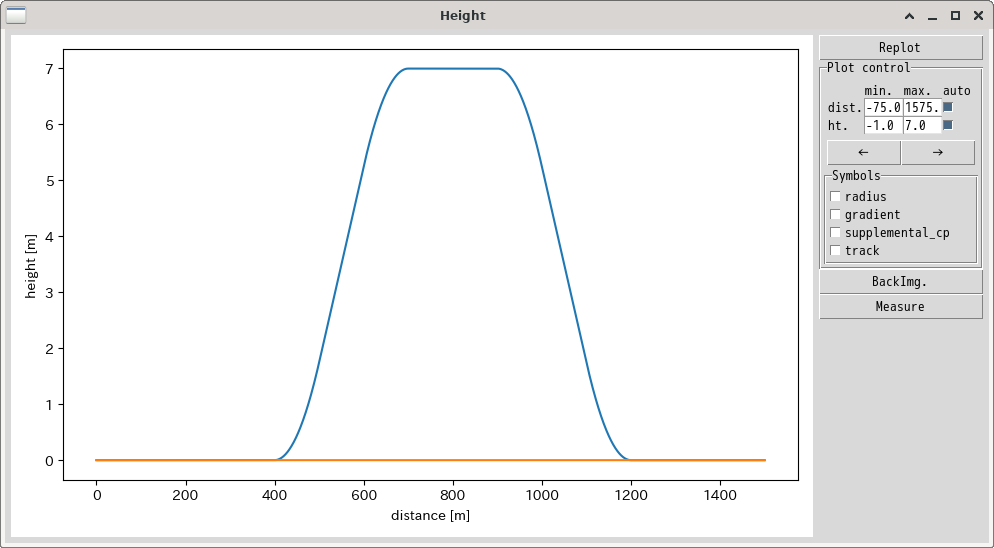
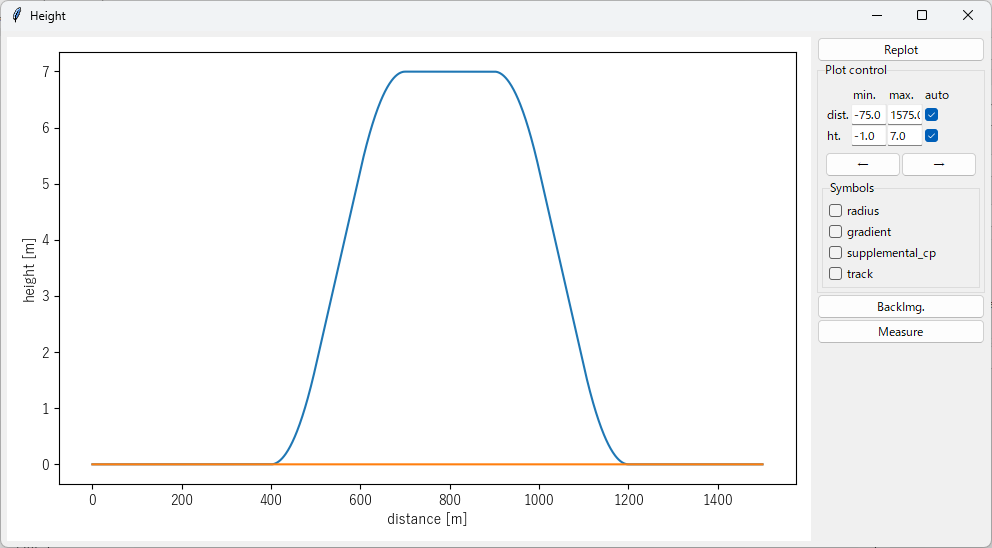
スクリーンショットの差し替え。ファイル構成の修正。

diff --git a/docs_src/reference_heightmeasure.rst b/docs_src/reference_heightmeasure.rst
@@ -2,3 +2,14 @@
 Measureウィンドウ(高度)
 ======================
 
+
+.. image:: ./files/height_measure.png
+	   :scale: 60%
+
+
+カーソル機能
+=============
+
+プロットウィンドウ上の座標(距離, 高度)と勾配を調べる機能です。
+任意の数のカーソルを設定できます。
+

diff --git a/docs_src/reference_height.rst b/docs_src/reference_height.rst
@@ -158,3 +158,4 @@ Measure ボタン
 
 高度プロット上の座標を調べるMeasureウィンドウを開きます。
 詳しくは :doc:`reference_heightmeasure` を参照してください。
+
